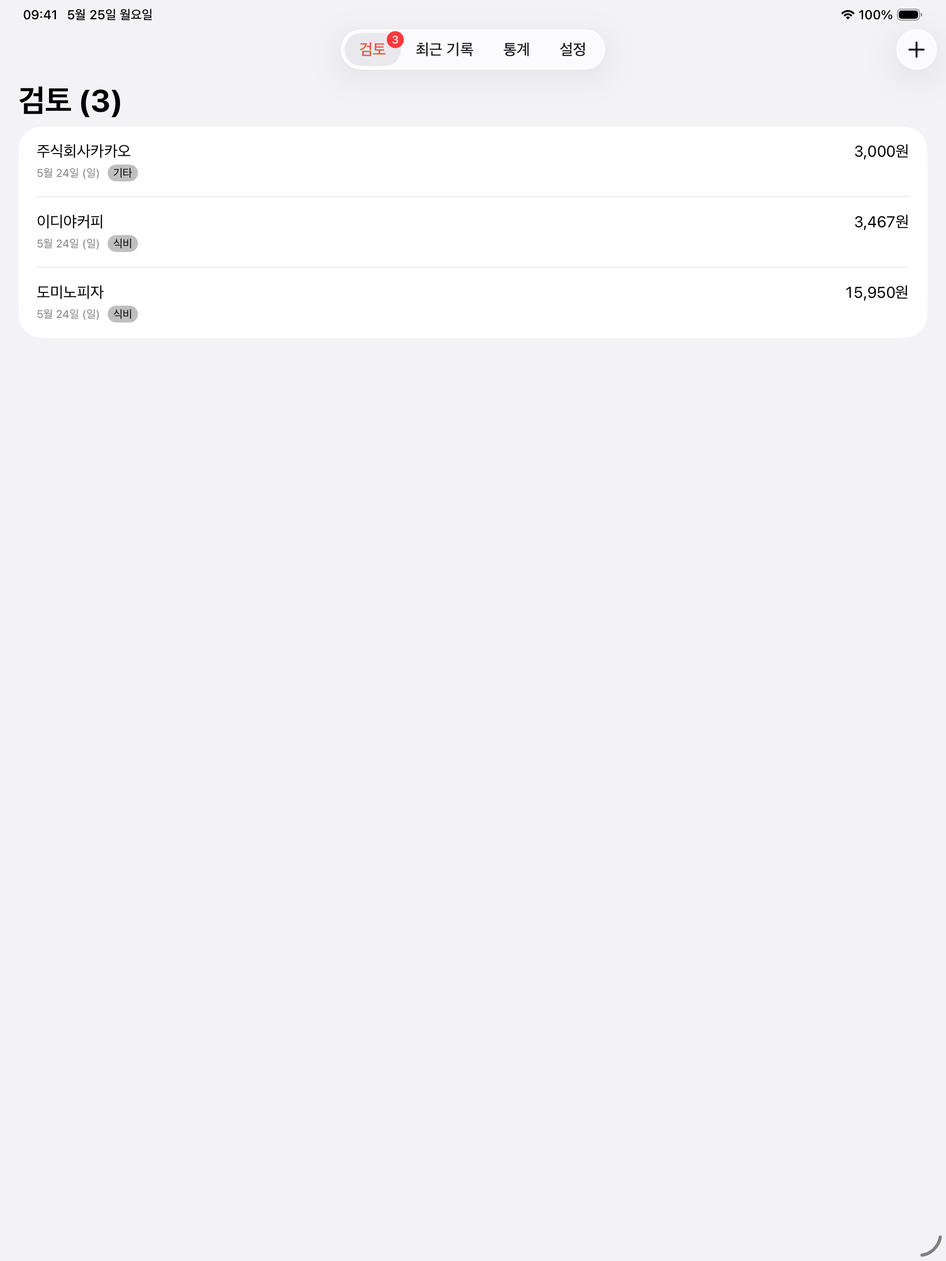
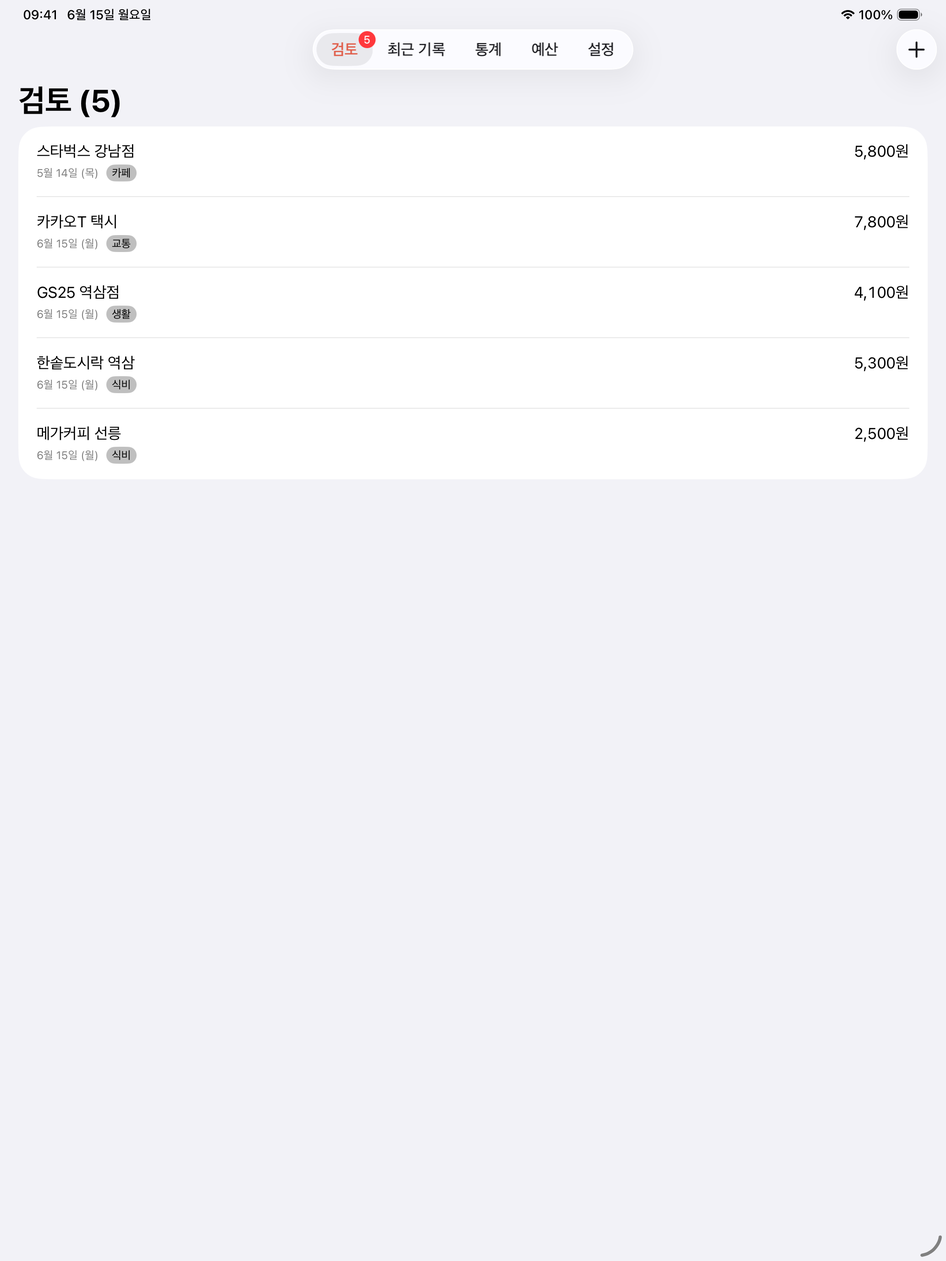
docs: 예산 탭·월 정산·v1.1 반영해 전체 문서 최신화 (#61)
* docs: 예산 탭·월 정산·v1.1 반영해 전체 문서 최신화

- AGENTS.md: 5탭 셸·SwiftData 모델 12종·예산/정산 Services·Storage·Features 트리 갱신, 아키텍처 결정 #8(카테고리 한도 자동 이월)·#9(월 정산 모델 분리 + AI 친화 정산 CSV round-trip) 추가
- README.md: 카테고리 예산·월 정산 기능 추가
- app-store-submission.md: 버전 1.1, Description·What's New·변경 이력 갱신
- docs(index/support/privacy): 예산·정산 기능과 reconciliations CSV 반영

* docs: 스크린샷용 샘플 데이터 추가 (지출·정산 CSV + 검토 입력 텍스트)

App Store 스크린샷·데모용으로 5월(hero month)·6월 샘플을 추가.
실제 앱 CSV 포맷(UTF-8 BOM + 헤더)과 동일해 연동 폴더에 넣으면 가져오기로 반영됨.

- expenses-2026-05/06.csv: 기본 10개 카테고리만 사용, 통계 도넛이 균형 있게 보이도록 분산
- reconciliations-2026-05.csv: 합산 시 "정상 차이 없음"(실제=기록=876,500)으로 떨어지게 조정,
  카드사용액 ≤ 지출로 현금흐름 일관성 확보
- reconciliations-2026-06.csv: 기초잔액=5월 기말로 월 연속성 유지, 월급 300만
- review-input-samples.md: 검토 화면용 카드 알림·영수증 샘플 텍스트 8종
- README: 예산 한도 추천표(앱 직접 입력)·화면별 캡처 가이드

* docs: App Store 스크린샷 갱신 + 예산·정산 컷 추가 (6·7번)

예산 탭·월 정산 화면을 6·7번 컷으로 추가하고 기존 컷을 샘플 데이터 기준으로 재촬영.

---------

diff --git a/docs/support.html b/docs/support.html
@@ -81,7 +81,11 @@
 <p>또한 검토 탭에서 카테고리를 직접 고치면 그 가맹점은 자동으로 학습됩니다.</p>
 
 <h3>Q. CSV 파일은 어디에 저장되나요?</h3>
-<p>온보딩에서 선택한 폴더 안에 <code>expenses-YYYY-MM.csv</code> 형식으로 월별 저장됩니다. 컬럼은 <code>날짜, 설명, 카테고리, 금액, 메모</code> 5열입니다. Numbers, Excel, 다른 가계부 앱에서 자유롭게 열 수 있습니다.</p>
+<p>온보딩에서 선택한 폴더 안에 <code>expenses-YYYY-MM.csv</code> 형식으로 월별 저장됩니다. 컬럼은 <code>날짜, 설명, 카테고리, 금액, 메모</code> 5열입니다. Numbers, Excel, 다른 가계부 앱에서 자유롭게 열 수 있습니다. 월 정산을 사용하면 같은 폴더에 <code>reconciliations-YYYY-MM.csv</code>도 함께 저장됩니다.</p>
+
+<h3>Q. 예산 탭은 어떻게 쓰나요?</h3>
+<p>예산 탭에서 카테고리별 월 한도를 정하면 그 달 사용률이 진행률로 표시됩니다. 한도는 다시 바꾸기 전까지 매월 자동으로 이어집니다.</p>
+<p>같은 탭의 <strong>월 정산</strong>에서는 수입·카드 사용액·저축·계좌별 잔액·자금 변동을 입력해 '실제 쓴 돈'과 앱에 '기록한 돈'을 맞춰볼 수 있습니다. 정산 결과는 <code>reconciliations-YYYY-MM.csv</code>로 저장되어, AI에게 파일을 그대로 주고 분석을 맡기기에도 좋습니다.</p>
 
 <h3>Q. 데이터가 외부로 전송되나요?</h3>
 <p>아니요. 모든 처리는 기기 안에서 이루어지며, 앱은 어떤 서버와도 통신하지 않습니다. 자세한 내용은 <a href="privacy-policy.html">개인정보 처리방침</a>을 참고해 주세요.</p>

diff --git a/docs/privacy-policy.html b/docs/privacy-policy.html
@@ -56,7 +56,7 @@
 <h2>2. 사용자 데이터의 처리 방식</h2>
 <ul>
   <li><strong>온디바이스 처리:</strong> 영수증·결제 알림 이미지의 문자 인식(OCR)과 항목 추출(Apple Foundation Models)은 모두 사용자의 기기 안에서 실행됩니다. 앱 자체는 어떤 네트워크 요청도 수행하지 않습니다.</li>
-  <li><strong>사용자 지정 폴더 저장:</strong> 추출된 가계부 항목은 사용자가 직접 선택한 iCloud Drive 폴더의 CSV 파일(<code>expenses-YYYY-MM.csv</code>)로만 저장됩니다. 앱 자체 서버나 클라우드 계정에는 보관되지 않습니다.</li>
+  <li><strong>사용자 지정 폴더 저장:</strong> 추출된 가계부 항목과 월 정산 내용은 사용자가 직접 선택한 iCloud Drive 폴더의 CSV 파일(<code>expenses-YYYY-MM.csv</code>, <code>reconciliations-YYYY-MM.csv</code>)로만 저장됩니다. 앱 자체 서버나 클라우드 계정에는 보관되지 않습니다.</li>
   <li><strong>iCloud Drive:</strong> CSV 파일이 iCloud Drive에 위치할 경우, 해당 데이터의 동기화·저장은 Apple의 iCloud 정책을 따릅니다. 앱은 iCloud 계정에 접근하거나 데이터를 읽지 않습니다.</li>
   <li><strong>공유 시트로 수신한 이미지:</strong> 공유 시트에서 받은 이미지는 앱 그룹 컨테이너의 임시 폴더(<code>inbox</code>)에 저장되며, 처리 후 자동 삭제됩니다.</li>
 </ul>

diff --git a/docs/index.html b/docs/index.html
@@ -71,6 +71,8 @@
   <li>공유 시트로 결제 알림·영수증 한 번에 캡쳐</li>
   <li>한 이미지에서 여러 건의 결제도 자동 분리</li>
   <li>가맹점 → 카테고리 자동 학습</li>
+  <li>카테고리별 월 예산 한도와 사용률 진행률</li>
+  <li>수입·카드·저축·계좌 잔액으로 한 달을 맞춰보는 월 정산</li>
   <li>사용자가 지정한 iCloud Drive 폴더에 월별 CSV로 저장</li>
   <li>온디바이스 처리 — 광고·분석 SDK 없음, 네트워크 호출 없음</li>
 </ul>

diff --git a/AGENTS.md b/AGENTS.md
@@ -42,7 +42,7 @@ SwiftLint는 `brew install swiftlint`로 사전 설치. 미설치 시 빌드 페
 | 폴더 | 무엇이 들어가나 | 무엇이 들어가면 안 되나 |
 |---|---|---|
 | `App/` | 앱 진입점·셸·App Group 상수 | 비즈니스 로직, 도메인 모델 |
-| `Models/` | SwiftData `@Model` 6종 | 비-SwiftData DTO (그건 `Services/`) |
+| `Models/` | SwiftData `@Model` (가계부 5종 + 예산·정산 7종) | 비-SwiftData DTO (그건 `Services/`) |
 | `Services/` | 비즈니스 로직 (OCR·추출·저장 오케스트레이션·도메인 헬퍼) | UI, 파일·시스템 IO |
 | `Storage/` | 파일/클립보드/북마크 IO | 비즈니스 결정 (어떤 데이터를 저장할지는 `Services/`) |
 | `Features/` | UI 탭 화면 + 온보딩 (SwiftUI) | 시스템 통합(BGTask/Intent/Notification) → `System/` |
@@ -52,7 +52,8 @@ SwiftLint는 `brew install swiftlint`로 사전 설치. 미설치 시 빌드 페
 SnapLedger/                          # 메인 앱 타겟 (synchronized root group)
   App/                               # 앱 진입점
     SnapLedgerApp.swift              # @main, ModelContainer (groupContainer), BGTask register
-    ContentView.swift                # TabView 셸 (검토/기록/통계/설정) + scenePhase 옵저버 + 온보딩 게이트
+    ContentView.swift                # TabView 셸 (검토/최근 기록/통계/예산/설정) + scenePhase 옵저버 + 온보딩 게이트
+                                     #            + 통계·예산 탭 재선택 시 현재 월 복귀(resetNonce)
     AppGroup.swift                   # group.com.youngkyu.snapledger 컨테이너 / inbox URL
   Info.plist                         # 부분 plist: BGTaskSchedulerPermittedIdentifiers + UIBackgroundModes
                                      #            + ITSAppUsesNonExemptEncryption
@@ -61,8 +62,16 @@ SnapLedger/                          # 메인 앱 타겟 (synchronized root grou
 
   Models/                            # SwiftData @Model
     AppSettings.swift, ParsedEntry.swift, SavedEntry.swift, PendingImage.swift, MerchantCategory.swift
-    CSVFileState.swift               # 월별 CSV 파일의 마지막 동기화 지문 (해시+mtime) — 외부 변경 감지 기준
+    CSVFileState.swift               # 월별 CSV 파일의 마지막 동기화 지문 (해시+mtime) — 외부 변경 감지 기준 (지출·정산 공용)
     AppSchema.swift                  # ModelContainer 공유 스키마 (메인 앱·AppIntent가 같은 스토어를 열므로 필수 동일)
+    # --- 예산·정산 (예산 탭) ---
+    CategoryBudget.swift             # 카테고리별 월 한도 (effectiveFrom부터 자동 이월, monthlyLimit=0은 해제 tombstone)
+    MonthlyReconciliation.swift      # 월 정산 헤더 (monthKey + note). 금액 항목은 아래 모델들로 분리
+    IncomeItem.swift                 # 월별 수입 항목 (이름+금액, sortOrder)
+    CardUsageItem.swift              # 월별 카드 사용액 항목 (이름+금액)
+    SavingsItem.swift                # 월별 저축 항목 (이름+금액)
+    AccountMonthlyBalance.swift      # 계좌별 월초/월말 잔액 + 이자
+    CashAdjustment.swift             # 자금 변동 (입금/출금, 이름+금액+메모) — CashAdjustmentDirection enum 동거
 
   Services/                          # 비즈니스 로직 (전부 unit-testable)
     OCRService.swift                 # protocol + VisionKitOCRService (한·영 accurate)
@@ -73,10 +82,21 @@ SnapLedger/                          # 메인 앱 타겟 (synchronized root grou
     PendingProcessor.swift           # @MainActor 파이프라인: reconcile inbox → OCR → heuristic → extract → ParsedEntry
     SaveCoordinator.swift            # 검토 확정 → CSV append + SavedEntry 생성 + 학습
     CategoryLearner.swift            # 가맹점 → 카테고리 학습/조회
+    CategoryValidation.swift         # 카테고리가 프리셋 목록(off-list) 밖인지 판정 (경고용, pure)
     ImageImporter.swift              # + 메뉴에서 사진/클립보드/파일/드롭 → inbox 정규화
-    SyncCoordinator.swift            # 월 단위 동기화 오케스트레이션 (감지·충돌·import/export, monthStatuses·folderSyncSummary)
+    CandidateAutoFill.swift          # 검토 항목 신규 입력 시 가맹점 등으로 카테고리·금액 자동 채움 (pure)
+    EntryReorder.swift               # 항목 드래그 재정렬 → sortOrder 재계산 (pure, 정산 항목 공용)
+    EntrySaveValidation.swift        # 검토 저장 전 필수 필드 검증 (pure)
+    SyncCoordinator.swift            # 월 단위 동기화 오케스트레이션 (감지·충돌·folderSyncSummary). 지출+정산 양쪽
+    SyncCoordinator+Files.swift      # 폴더 접근·파일 열거·지문 갱신 헬퍼
+    SyncCoordinator+Import.swift     # 지출 CSV import/export (monthStatuses, importMonths)
+    SyncCoordinator+Reconciliation.swift # 정산 CSV import/export·monthKeys (도메인 ↔ ReconciliationCSV)
+    SyncFileKind.swift               # 동기화 대상 파일 종류 (.expenses / .reconciliation) 구분
     CSVFolderAccess.swift            # 저장 폴더 bookmark 해소 + 도달성 확인 래퍼
-    CSVRowParser.swift               # CSV 한 행 ↔ 도메인 필드 파싱 (저장·동기화 공용)
+    CSVRowParser.swift               # 지출 CSV 한 행 ↔ 도메인 필드 파싱 (저장·동기화 공용)
+    CategoryBudgetStore.swift        # 카테고리 한도 CRUD + effectiveLimit 이월 계산 (monthKey 헬퍼)
+    ReconciliationStore.swift        # 월 정산 draft 로드/저장/삭제·이월(carry-forward)·CSV 행 생성
+    ReconciliationSummary.swift      # 정산 요약 계산 (실제 쓴 돈/기록한 돈/차이, isReconciled 판정) — pure
 
   Storage/                           # 파일·클립보드·북마크 IO
     CSVWriter.swift                  # NSFileCoordinator 기반 월별 CSV (BOM + 헤더 + escape)
@@ -85,14 +105,21 @@ SnapLedger/                          # 메인 앱 타겟 (synchronized root grou
     FolderBookmarkHelper.swift       # BookmarkStore 래퍼 — URL → AppSettings.csvFolderBookmark 적용
     ClipboardExporter.swift          # 검토/기록 항목을 TSV(+HTML) 페이로드로 (Numbers paste용)
     FileFingerprint.swift            # 파일 내용 SHA-256 + mtime 지문 (외부 변경 감지·iCloud 다운로드 게이트)
+    ReconciliationCSV.swift          # 월 정산 CSV(reconciliations-YYYY-MM.csv) writer/parser — AI 분석 친화 + 무손실 round-trip
 
   Features/                          # UI 화면
+    MonthNavigationRow.swift         # ◀ 현재 월(메뉴) ▶ 월 선택 행 (예산·통계 탭 공용)
     Review/                          # ReviewListView (+ 메뉴/드롭존/뱃지/처리중 표시), EntryEditorView (chip row), FailedImagesSection·InboxImage
     History/                         # HistoryView (@Query SavedEntry, 일별 섹션), SavedEntryEditorView,
                                      # CSVFileView (월별 표 뷰어 + 다중 선택 복사/공유), HistoryGrouping (pure)
-    Statistics/                      # StatisticsView (카테고리 도넛 + 전월 대비), StatisticsAggregation (pure)
+    Statistics/                      # StatisticsView (카테고리 도넛 + 전월 대비), StatisticsAggregation (pure),
+                                     # CategoryColor (pure), CategoryEntriesSheet (도넛 조각 탭 → 그 카테고리 항목 목록)
+    Budget/                          # BudgetView (월 선택 → 정산 진입 + 카테고리별 한도 진행률), BudgetProgress (pure: 한도 대비 사용),
+                                     # MonthlyReconciliationView (수입/카드/저축/계좌잔액/자금변동 입력 + 월급 마스킹),
+                                     # ReconciliationEditors (계좌/항목 편집 행), ReconciliationVerdict+Color (정상/차이 색)
     Settings/                        # SettingsView (저장폴더 행=폴더이름+동기화 상태아이콘→폴더상태 / reminder / FM 상태),
-                                     # AdvancedSettingsView (카테고리 / 추출 가이드), FolderPicker, FeedbackMail (pure), MailComposeSheet
+                                     # AdvancedSettingsView (카테고리 / 추출 가이드), CategoryEditorView (프리셋 추가·삭제·재정렬),
+                                     # AboutView, FolderPicker, FeedbackMail (pure), MailComposeSheet
     Sync/                            # FileSyncView (폴더 상태=월별 최신/변경/단방향 + 폴더 변경), SyncConflictAlert (가져오기/덮어쓰기)
     Onboarding/                      # OnboardingView + ValuePage/SetupPage + AppearStep/PermissionAction (pure)
 
@@ -141,6 +168,14 @@ SnapLedgerTests/                     # Swift Testing — 소스 구조를 미러
    - **마이그레이션**: 기능 도입 전부터 있던 파일을 "외부 새 파일"로 오인하지 않도록, 폴더가 준비된 첫 진입에서 현재 지문을 baseline으로 기록 (`AppSettings.hasSyncBaseline`). 폴더 변경 시 `resetSyncState`로 지문을 비우고 baseline 리셋.
    - 모든 CSV 쓰기/import 후 지문을 갱신해 다음 감지의 기준으로 삼는다. 수동 동기화 진입점은 **설정 → 저장 폴더 행**: 폴더 이름 행 우측에 상태 아이콘(동기화됨=초록 체크 / 변경 있음=노랑 경고 / 폴더 없음=빨강 경고 / 데이터 없음=아이콘 없음, `SyncCoordinator.folderSyncSummary`)을 두고, 탭하면 `FileSyncView`("폴더 상태")로 이동. 그 화면에서 월별 상태(최신/파일 변경됨/파일에만 있음/앱에만 있음)를 보고 **달별로** 가져오기/저장(`SyncCoordinator.monthStatuses`, 월 탭 시 일반 alert), 하단에서 폴더 변경. (전체 일괄 동기화는 위험 대비 실효가 낮아 미제공 — importAll/exportAll은 테스트 전용 API로만 잔존.)
    - **폴더 삭제/이동 처리**: bookmark는 resolve돼도 실제 디렉토리가 없을 수 있음 → `BookmarkStore.isReachableDirectory`로 확인. `SyncCoordinator.withFolder`·`SaveCoordinator`(save/update/delete)는 `folderUnavailable`로 차단하고, `folderSyncSummary`는 `.folderMissing`(빨강 경고), `FileSyncView`는 "폴더를 찾을 수 없어요 + 폴더 변경" 화면을 노출.
+
+8. **카테고리 한도는 effectiveFrom으로 자동 이월** (`CategoryBudget` / `CategoryBudgetStore`)
+   한도는 달마다 row를 만들지 않는다. `CategoryBudget(category, monthlyLimit, effectiveFrom)`은 "이 달부터 다음 변경 전까지" 매월 자동 반복. 특정 달의 유효 한도는 `effectiveFrom <= month` 중 가장 최신 row (`CategoryBudgetStore.resolveLimit`). 한도 해제는 row 삭제가 아니라 `monthlyLimit = 0` tombstone으로 그 달부터 끄기 (과거 달 한도는 보존). 예산 탭은 한도가 자동 이월되므로 미래 달 보기를 막고 현재 달까지만 노출.
+
+9. **월 정산은 헤더 + 항목 모델 분리, CSV로 round-trip** (`MonthlyReconciliation` 외 6모델 / `ReconciliationStore` / `ReconciliationCSV`)
+   한 달의 정산은 `MonthlyReconciliation`(monthKey + 월 메모)을 헤더로 두고, 금액은 `IncomeItem`·`CardUsageItem`·`SavingsItem`·`AccountMonthlyBalance`·`CashAdjustment`로 분리 저장. 화면 진입 시 `ReconciliationStore.carryForwardDraft`가 전월 값을 "다음 달에도 안정적인 값"만 미리채움 (계좌 이름·잔액 기준선, 수입·저축 이름+금액, 카드·자금변동은 이름만 금액 0).
+   - **요약·판정은 `ReconciliationSummary`(pure)에 단일화**: `실제 쓴 돈`(actualSpending)·`기록한 돈`(recordedSpending)·차이와 `isReconciled(status:)` 판정을 한 곳에서 계산해 예산 탭과 정산 화면이 같은 결론을 낸다. 진행 중인 달은 사용자가 실제 값을 입력(월말≠월초 또는 카드)해야 "정산 진행"으로 보고, 그 전엔 `실제 쓴 돈`을 0으로 게이트(프리필 노이즈 차단). 마감된 달은 저장 데이터가 있으면 확정.
+   - **정산 CSV는 AI 분석 친화 + 무손실 round-trip** (`reconciliations-YYYY-MM.csv`): 헤더 `종류,항목,계좌,방향,금액,메모` 6칼럼, UTF-8+BOM, RFC4180 이스케이프. 소비자가 AI라 self-describing(한글 라벨)로 설계 — `날짜` 칼럼 없음(정산 모델은 전부 `monthKey` 단위라 일자 자체가 없음), 계좌 잔액은 기초/기말/이자 3행으로 펼침, `월메모` 종류로 헤더 메모까지 보존. 지출 CSV와 동일하게 `CSVFileState` 지문 기반 외부 변경 감지·충돌 가드·달별 가져오기/덮어쓰기가 얹힘 (`SyncCoordinator+Reconciliation`).
 
 ## 컨벤션 (지켜주세요)
 

diff --git a/internal/sample-data/README.md b/internal/sample-data/README.md
@@ -1,0 +1,68 @@
+# 스크린샷용 샘플 데이터
+
+App Store 스크린샷·데모용으로 미리 채워둘 수 있는 샘플 데이터.
+실제 앱이 쓰는 CSV 포맷(UTF-8 BOM + 헤더)과 동일하므로 iCloud Drive 연동 폴더에
+그대로 넣으면 가져오기로 반영된다.
+
+**스크린샷의 기준 달(hero month)은 5월(2026-05)** 이다. 마감된 과거 달이라
+정산이 "정상 · 차이 없음"으로 확정 표시되고, 한 달 전체 지출이 차 있어
+통계 도넛·예산 사용률이 가장 보기 좋다. 통계·예산·정산 탭은 현재 달(6월)이
+기본이므로 **좌우로 스와이프해 5월로 이동한 뒤 캡처**한다.
+
+## 파일
+
+| 파일 | 포맷 | 설명 |
+|---|---|---|
+| `expenses-2026-05.csv` | `날짜,설명,카테고리,금액,메모` | 5월 한 달 전체 지출 (37건, 합계 876,500원) |
+| `expenses-2026-06.csv` | 〃 | 6월 중순까지 부분 지출 (현재 월, 19건) |
+| `reconciliations-2026-05.csv` | `종류,항목,계좌,방향,금액,메모` | 5월 정산 — 합산 시 "정상 차이 없음"으로 떨어지도록 맞춤 |
+| `reconciliations-2026-06.csv` | 〃 | 6월 진행 중 정산 (기초잔액 = 5월 기말, 연속성 유지) |
+| `review-input-samples.md` | 텍스트 | 검토 화면을 채울 카드 알림/영수증 샘플 텍스트 |
+
+## 카테고리
+
+기본 10종만 사용: 식비 · 카페 · 생활 · 교통 · 쇼핑 · 공과금 · 구독 · 의료 · 문화 · 기타
+(`AppSettings.swift`의 기본값과 일치 → off-list 경고 없이 깔끔하게 보임)
+
+## 예산 한도 (앱에서 직접 입력)
+
+카테고리별 월 한도(`CategoryBudget`)는 CSV가 아니라 **SwiftData에만 저장**되므로
+가져오기로는 채워지지 않는다. 예산 탭 스크린샷을 위해 앱에서 아래 값을 직접 입력한다.
+5월 실지출과 맞물려 **초과 1건(교통)·주의 1건(식비)·여유 다수**의 읽기 좋은 분포가 나온다.
+
+| 카테고리 | 5월 지출 | 추천 한도 | 사용률 | 상태 |
+|---|--:|--:|--:|---|
+| 교통 | 109,100 | 100,000 | 109% | 🔴 초과 — 경고 표시 데모 |
+| 구독 | 28,400 | 30,000 | 95% | 고정비, 거의 참 |
+| 공과금 | 93,600 | 100,000 | 94% | 고정비, 거의 참 |
+| 식비 | 180,200 | 200,000 | 90% | 🟡 주의 |
+| 문화 | 60,300 | 70,000 | 86% | 🟢 여유 |
+| 쇼핑 | 196,500 | 250,000 | 79% | 🟢 여유 |
+| 카페 | 43,300 | 60,000 | 72% | 🟢 여유 |
+| 생활 | 141,700 | 200,000 | 71% | 🟢 여유 |
+| 의료 | 23,400 | 50,000 | 47% | 🟢 여유 |
+| 기타 | 0 | (미설정) | — | — |
+
+> 교통이 한도를 넘겨 예산 탭 상단에 빨간 경고로 뜨는 게 핵심 컷.
+> 정산 CSV의 월메모도 "교통비가 예산을 넘김"으로 맞춰 두 화면의 스토리를 일치시켰다.
+
+## 화면별 체크
+
+- **검토**: `review-input-samples.md`의 4번(여러 건 묶음)이 한 장에서 4행이 한꺼번에
+  채워지는 가장 강한 컷. 가맹점·금액·카테고리·날짜가 또렷하게 들어온다.
+- **최근 기록**: 5월 리스트 상단(05-31·05-30)이 식비·카페·쇼핑·문화로 다양하게
+  섞이도록 구성. 월별 그룹 헤더가 보이게 스크롤 위치를 맞춘다.
+- **통계**: 쇼핑·식비·생활이 큰 슬라이스, 나머지가 작은 슬라이스라 도넛이 균형 있게
+  보인다. 전월 대비 비교까지 함께 잡으면 좋다.
+- **예산**: 위 한도표대로 입력. 교통 초과(빨강) + 식비 주의(노랑) + 여유 다수.
+- **정산**: 5월로 이동하면 "정상 · 차이 없음"(초록). 실제 쓴 돈 = 기록한 돈 = 876,500원.
+
+## 사용법
+
+1. 설정에서 연동한 iCloud Drive 폴더에 `expenses-*.csv` / `reconciliations-*.csv`를 복사.
+2. 앱 재진입 → 동기화가 파일을 읽어 최근 기록·통계·예산 탭에 반영.
+3. 예산 탭에서 위 한도표대로 카테고리 한도를 입력.
+4. 검토 탭 스크린샷은 `review-input-samples.md`의 블록을 알림/메모 앱에 붙여 캡처 후 공유.
+
+> 정산 CSV의 `종류` 값은 `수입 / 카드사용액 / 저축액 / 기초잔액 / 기말잔액 / 이자 / 자금변동 / 월메모` 중 하나여야 한다.
+> `기초·기말잔액·이자`는 `계좌`, `자금변동`은 `방향(입금/출금)`이 필수.

diff --git a/internal/app-store-submission.md b/internal/app-store-submission.md
@@ -1,6 +1,6 @@
 # App Store 제출 메타데이터
 
-찰칵가계부 1.0 App Store Connect 제출용 메타데이터.
+찰칵가계부 App Store Connect 제출용 메타데이터 (현재 버전 1.1).
 업데이트 시 이 문서를 single source of truth로 유지한다.
 
 ---
@@ -15,7 +15,7 @@
 | Apple ID | `6772852897` |
 | SKU | `snapledger-001` |
 | Primary Language | Korean |
-| Version | 1.0 |
+| Version | 1.1 |
 | Copyright | `2026 YOUNGKYU SEO` (©는 시스템이 자동 부착) |
 | Primary Category | Finance |
 | Secondary Category | Productivity |
@@ -48,7 +48,7 @@
 
 ### Description (최대 4000자)
 ```
-찰칵가계부는 결제 알림이나 영수증을 사진 한 장으로 가계부에 옮기는, 한국 사용자를 위한 iOS 26 가계부입니다.
+찰칵가계부는 결제 알림이나 영수증을 사진 한 장으로 가계부에 옮기는, 한국 사용자를 위한 가계부입니다.
 
 ■ 이렇게 동작해요
 1. 카드사 결제 알림을 캡쳐하거나 영수증을 찍습니다.
@@ -64,6 +64,8 @@
 • 최근 기록 탭에서 월별로 묶어 보기, 스크롤하면 과거 달이 자동으로 이어짐.
   다중 선택 후 Numbers·메일로 바로 붙여넣기
 • 통계 탭의 카테고리 도넛과 전월 대비 비교
+• 카테고리별 월 예산 한도와 사용률 진행률 (한도는 매월 자동 이월)
+• 수입·카드·저축·계좌 잔액을 입력해 '실제 쓴 돈'과 '기록한 돈'을 맞춰보는 월 정산
 • 항목마다 자유 메모 (할인 사유, 동행자, 영수증 번호 등)
 • 매일 저녁 검토 알림과 아이콘 뱃지로 빠뜨림 방지
 • 사진 라이브러리, 클립보드, 파일, 드래그&드롭, 직접 입력까지 모든 입력 경로 지원
@@ -71,7 +73,7 @@
 
 ■ 프라이버시
 • 모든 인식과 추출은 기기 안에서 처리됩니다. 결제 정보가 서버로 전송되지 않습니다.
-• 데이터는 사용자가 직접 지정한 iCloud Drive 폴더의 CSV 파일로만 저장됩니다. 언제든지 파일을 가져가거나 삭제할 수 있습니다.
+• 데이터는 사용자가 직접 지정한 iCloud Drive 폴더의 CSV 파일(가계부·월 정산)로만 저장됩니다. 언제든지 파일을 가져가거나 삭제할 수 있습니다.
 • 광고·분석 SDK가 없습니다.
 
 ■ 동작 요구 사항
@@ -86,9 +88,16 @@
 피드백은 설정 → 의견 보내기에서 직접 보내주세요. 빠르게 반영하겠습니다.
 ```
 
-### What's New in This Version (1.0 출시 노트)
+### What's New in This Version (1.1 출시 노트)
 ```
-첫 출시입니다. 결제 알림 스크린샷을 공유 시트로 보내면 Apple Intelligence가 가계부에 자동으로 옮겨 적습니다.
+• 예산 탭이 새로 생겼습니다. 카테고리별 월 한도를 정하고 사용률을 한눈에 확인하세요.
+• 월 정산 기능 — 수입·카드·저축·계좌 잔액을 입력하면 '실제 쓴 돈'과 '기록한 돈'을 맞춰볼 수 있고, 정산 결과도 폴더에 CSV로 저장됩니다.
+• 검토 항목 자동 채우기와 여러 문구·동작을 다듬었습니다.
+```
+
+#### 이전 버전 노트
+```
+1.0 — 첫 출시입니다. 결제 알림 스크린샷을 공유 시트로 보내면 Apple Intelligence가 가계부에 자동으로 옮겨 적습니다.
 ```
 
 ---
@@ -150,3 +159,4 @@ There is no account, no purchase, no advertising.
 | 버전 | 날짜 | 비고 |
 |---|---|---|
 | 1.0 | 2026-05-24 작성 | 첫 제출 |
+| 1.1 | 2026-06-14 갱신 | 예산 탭(카테고리 한도) + 월 정산 + 정산 CSV 추가 |

diff --git a/internal/sample-data/review-input-samples.md b/internal/sample-data/review-input-samples.md
@@ -1,0 +1,109 @@
+# 검토 화면용 샘플 입력 텍스트
+
+스크린샷용 검토(추출) 화면을 채우기 위한 샘플 입력 모음.
+실제로는 **카드 결제 알림 스크린샷**이나 **영수증 사진**을 공유받아 OCR → 추출하지만,
+이미지를 따로 만들기 어려우면 아래 텍스트를 그대로 알림/메모 앱에 붙여 캡처해 공유하거나,
+추출 로직을 테스트할 입력으로 사용할 수 있다.
+
+각 블록은 한 건의 공유(=한 장의 스크린샷)에 해당한다.
+
+---
+
+## 1. 카드 결제 알림 — 단건 (가장 흔한 형태)
+
+```
+[신한카드] 승인 김O규님
+5,800원 일시불
+05/14 13:22
+스타벅스 강남점
+누적 1,240,500원
+```
+
+## 2. 카드 결제 알림 — 단건 (체크카드)
+
+```
+KB국민체크카드 출금
+68,400원
+이마트 성수점
+06/02 19:41
+잔액 1,301,600원
+```
+
+## 3. 간편결제 알림 — 단건
+
+```
+카카오페이 결제 완료
+23,000원
+배달의민족
+오후 8:12
+```
+
+## 4. 카드 결제 알림 — 여러 건 묶음 (멀티 트랜잭션)
+
+```
+[신한카드] 오늘 사용 내역
+
+09:14  메가커피 선릉      2,500원
+12:38  한솥도시락 역삼    5,300원
+18:55  GS25 역삼점        4,100원
+21:03  카카오T 택시       7,800원
+
+합계 19,700원 (4건)
+```
+
+## 5. 영수증 형태 — 마트 (품목까지 보이는 케이스)
+
+```
+홈플러스 강남점
+2026-06-14  18:32
+------------------------------
+삼겹살 600g        14,900
+계란 한판           6,500
+우유 1L x2          5,800
+바나나               3,900
+세제                 8,200
+즉석밥 12입          9,900
+------------------------------
+합계              49,200원
+신한카드 일시불
+```
+
+## 6. 영수증 형태 — 카페
+
+```
+투썸플레이스 시청점
+06/07 11:20
+아이스 아메리카노   4,500
+티라미수            6,700
+------------------------------
+합계              11,200원
+KAKAO PAY
+```
+
+## 7. 정기결제(구독) 알림
+
+```
+[해외승인] 신한카드
+NETFLIX.COM
+13,500원
+06/01
+```
+
+## 8. 공과금/통신비 알림
+
+```
+SKT 6월 이용요금 출금 예정
+55,000원
+06/08 자동이체
+```
+
+---
+
+## 메모
+
+- 1·2번처럼 **연도 없이 `MM/DD`만** 있는 알림이 대부분 → 추출 후 오늘 연도로 보정됨
+  (`ExtractionService.normalizeYear` 참고).
+- 4번은 한 장에서 **여러 거래**가 나오는 케이스라 검토 목록에 4행이 한꺼번에 채워진다.
+- 5·6번 영수증은 품목 합계만 한 건으로 추출되며, 카테고리는 가맹점 기준으로 추론된다
+  (예: 홈플러스→생활, 투썸→카페).
+- 가맹점명은 추출 시 정규화될 수 있다(예: `NETFLIX.COM`→넷플릭스, `KAKAO PAY`→카카오페이).

diff --git a/README.md b/README.md
@@ -30,7 +30,9 @@
 - **카테고리 학습** — 검토에서 사용자가 카테고리를 바꾸면 가맹점→카테고리 매핑을 학습해 다음번에 자동 적용
 - **기록 탭** — 월별 CSV 뷰어 + 다중 선택 복사 (HTML+TSV 멀티 페이로드로 Numbers에 표 그대로 paste)
 - **파일 동기화** — 저장 폴더의 월별 CSV를 Numbers·다른 기기에서 직접 고쳐도 외부 변경을 감지해 달별로 가져오기/덮어쓰기 (저장 시 충돌 가드, 설정 → 저장 폴더에서 동기화 상태 확인)
-- **통계 대시보드** — 카테고리 도넛 + 전월 대비 추세
+- **통계 대시보드** — 카테고리 도넛 + 전월 대비 추세 (도넛 조각을 탭하면 그 카테고리 항목 목록)
+- **카테고리 예산** — 카테고리별 월 한도 설정, 사용률 진행률로 표시. 한도는 변경 전까지 매월 자동 이월
+- **월 정산** — 수입·카드 사용액·저축·계좌별 잔액·자금 변동을 입력해 '실제 쓴 돈'과 '기록한 돈'을 대조. 결과는 `reconciliations-YYYY-MM.csv`로 저장돼 AI에게 그대로 분석을 맡길 수 있음 (지출 CSV와 동일하게 외부 변경 감지·동기화)
 - **야간 알림** — 매일 설정한 시각에 검토 대기 건수 알림 (홈 화면 아이콘 뱃지도 동기화)
 - **백그라운드 처리** — BGTaskScheduler로 앱 미사용 시에도 catch-up 처리
 - **Shortcuts/Siri** — `AddExpenseFromImageIntent`로 음성·자동화에서 호출 가능
